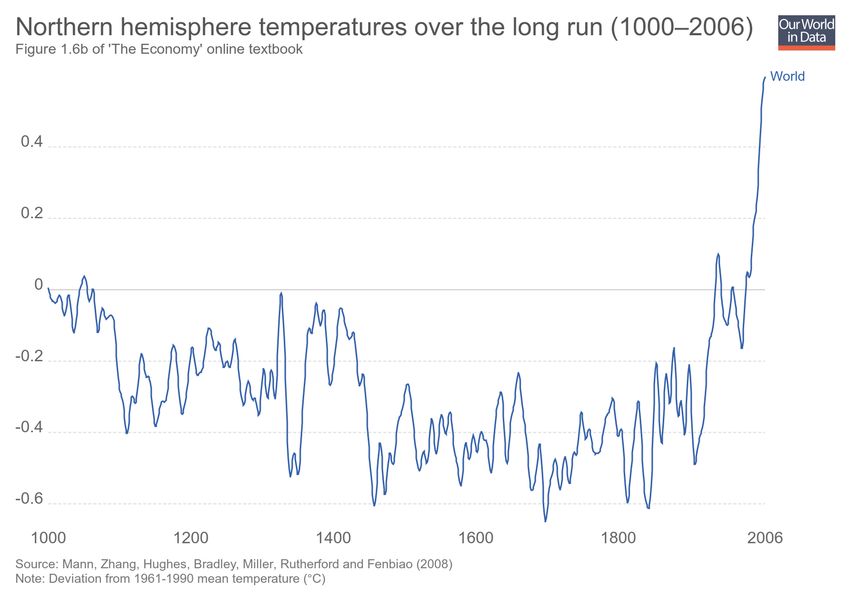
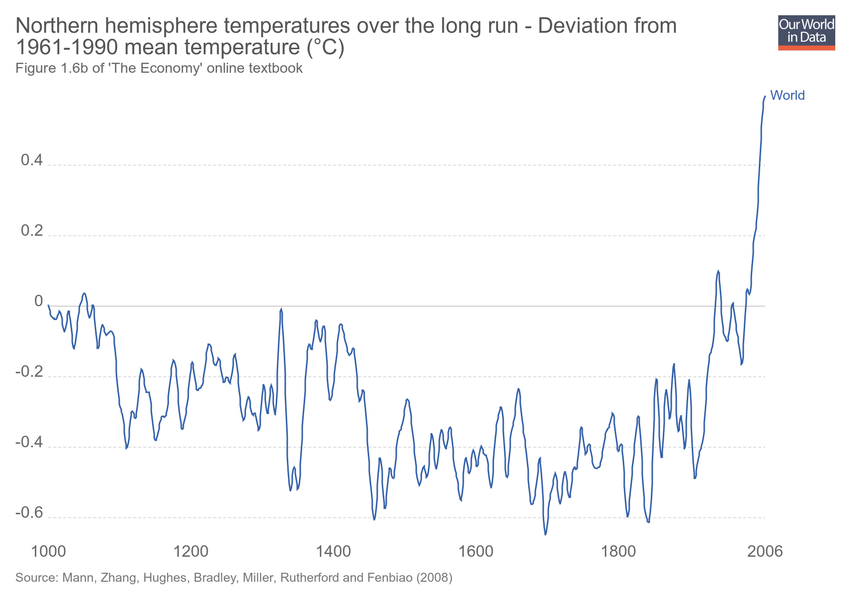
Updating chart northern-hemisphere-temperatures-over-the-long-run-10002006

diff --git a/grapher/northern-hemisphere-temperatures-over-the-long-run-10002006.html b/grapher/northern-hemisphere-temperatures-over-the-long-run-10002006.html
@@ -1,4 +1,4 @@
-<!doctype html><html><head><meta name="viewport" content="width=device-width, initial-scale=1" /><title>Northern hemisphere temperatures over the long run (1000–2006) - Our World in Data</title><meta name="description" content="Figure 1.6b of 'The Economy' online textbook" /><link rel="canonical" href="https://ourworldindata.org/grapher/northern-hemisphere-temperatures-over-the-long-run-10002006" /><meta property="fb:app_id" content="1149943818390250" /><meta property="og:url" content="https://ourworldindata.org/grapher/northern-hemisphere-temperatures-over-the-long-run-10002006" /><meta property="og:title" content="Northern hemisphere temperatures over the long run (1000–2006)" /><meta property="og:description" content="Figure 1.6b of 'The Economy' online textbook" /><meta property="og:image" content="https://ourworldindata.org/grapher/exports/northern-hemisphere-temperatures-over-the-long-run-10002006.png?v=3" /><meta property="og:image:width" content="850" /><meta property="og:image:height" content="600" /><meta property="og:site_name" content="Our World in Data" /><meta name="twitter:card" content="summary_large_image" /><meta name="twitter:site" content="@OurWorldInData" /><meta name="twitter:creator" content="@OurWorldInData" /><meta name="twitter:title" content="Northern hemisphere temperatures over the long run (1000–2006)" /><meta name="twitter:description" content="Figure 1.6b of 'The Economy' online textbook" /><meta name="twitter:image" content="https://ourworldindata.org/grapher/exports/northern-hemisphere-temperatures-over-the-long-run-10002006.png?v=3" /><style>
+<!doctype html><html><head><meta name="viewport" content="width=device-width, initial-scale=1" /><title>Northern hemisphere temperatures over the long run - Deviation from 1961-1990 mean temperature (°C) - Our World in Data</title><meta name="description" content="Figure 1.6b of 'The Economy' online textbook" /><link rel="canonical" href="https://ourworldindata.org/grapher/northern-hemisphere-temperatures-over-the-long-run-10002006" /><meta property="fb:app_id" content="1149943818390250" /><meta property="og:url" content="https://ourworldindata.org/grapher/northern-hemisphere-temperatures-over-the-long-run-10002006" /><meta property="og:title" content="Northern hemisphere temperatures over the long run - Deviation from 1961-1990 mean temperature (°C)" /><meta property="og:description" content="Figure 1.6b of 'The Economy' online textbook" /><meta property="og:image" content="https://ourworldindata.org/grapher/exports/northern-hemisphere-temperatures-over-the-long-run-10002006.png?v=4" /><meta property="og:image:width" content="850" /><meta property="og:image:height" content="600" /><meta property="og:site_name" content="Our World in Data" /><meta name="twitter:card" content="summary_large_image" /><meta name="twitter:site" content="@OurWorldInData" /><meta name="twitter:creator" content="@OurWorldInData" /><meta name="twitter:title" content="Northern hemisphere temperatures over the long run - Deviation from 1961-1990 mean temperature (°C)" /><meta name="twitter:description" content="Figure 1.6b of 'The Economy' online textbook" /><meta name="twitter:image" content="https://ourworldindata.org/grapher/exports/northern-hemisphere-temperatures-over-the-long-run-10002006.png?v=4" /><style>
         html, body {
             height: 100%;
             margin: 0;
@@ -20,8 +20,8 @@
         }
     </style><noscript><style>
                     figure { display: none !important; }
-                </style></noscript><link rel="stylesheet" href="https://ourworldindata.org/grapher/assets/commons.bundle.a7ca57435d3cddfe4bc2.css" /><link rel="preload" href="/grapher/data/variables/97945.json?v=3" as="fetch" crossorigin /></head><body class="singleChart"><figure data-grapher-src="/grapher/northern-hemisphere-temperatures-over-the-long-run-10002006"></figure><noscript id="fallback"><img src="/grapher/exports/northern-hemisphere-temperatures-over-the-long-run-10002006.svg" /><p>Interactive visualization requires JavaScript</p></noscript><script src="https://cdn.polyfill.io/v2/polyfill.min.js?features=es6,fetch"></script><script src="https://ourworldindata.org/grapher/assets/commons.bundle.a7ca57435d3cddfe4bc2.js"></script><script src="https://ourworldindata.org/grapher/assets/charts.bundle.a7ca57435d3cddfe4bc2.js"></script><script>
-        var jsonConfig = {"id":3014,"map":{"projection":"World","colorSchemeLabels":[],"colorSchemeValues":[],"customNumericColors":[],"customCategoryColors":{},"customCategoryLabels":{},"customHiddenCategories":{}},"tab":"chart","note":"Deviation from 1961-1990 mean temperature (°C)","slug":"northern-hemisphere-temperatures-over-the-long-run-10002006","type":"LineChart","title":"Northern hemisphere temperatures over the long run (1000–2006)","xAxis":{"scaleType":"linear"},"yAxis":{"min":0,"scaleType":"linear"},"version":3,"subtitle":"Figure 1.6b of 'The Economy' online textbook","hasMapTab":false,"stackMode":"absolute","dimensions":[{"display":{},"property":"y","variableId":97945}],"isAutoSlug":true,"hasChartTab":true,"isPublished":true,"selectedData":[{"index":0,"entityId":355}],"internalNotes":"core-econ.org","addCountryMode":"add-country"};
+                </style></noscript><link rel="stylesheet" href="https://ourworldindata.org/grapher/assets/commons.bundle.a7ca57435d3cddfe4bc2.css" /><link rel="preload" href="/grapher/data/variables/97945.json?v=4" as="fetch" crossorigin /></head><body class="singleChart"><figure data-grapher-src="/grapher/northern-hemisphere-temperatures-over-the-long-run-10002006"></figure><noscript id="fallback"><img src="/grapher/exports/northern-hemisphere-temperatures-over-the-long-run-10002006.svg" /><p>Interactive visualization requires JavaScript</p></noscript><script src="https://cdn.polyfill.io/v2/polyfill.min.js?features=es6,fetch"></script><script src="https://ourworldindata.org/grapher/assets/commons.bundle.a7ca57435d3cddfe4bc2.js"></script><script src="https://ourworldindata.org/grapher/assets/charts.bundle.a7ca57435d3cddfe4bc2.js"></script><script>
+        var jsonConfig = {"id":3014,"map":{"projection":"World","colorSchemeLabels":[],"colorSchemeValues":[],"customNumericColors":[],"customCategoryColors":{},"customCategoryLabels":{},"customHiddenCategories":{}},"tab":"chart","slug":"northern-hemisphere-temperatures-over-the-long-run-10002006","type":"LineChart","title":"Northern hemisphere temperatures over the long run - Deviation from 1961-1990 mean temperature (°C)","xAxis":{"scaleType":"linear"},"yAxis":{"min":0,"scaleType":"linear"},"version":4,"subtitle":"Figure 1.6b of 'The Economy' online textbook","hasMapTab":false,"stackMode":"absolute","dimensions":[{"display":{},"property":"y","variableId":97945}],"hasChartTab":true,"isPublished":true,"selectedData":[{"index":0,"entityId":355}],"internalNotes":"core-econ.org","addCountryMode":"add-country"};
         var figure = document.getElementsByTagName("figure")[0];
         try {
             window.App = {};
